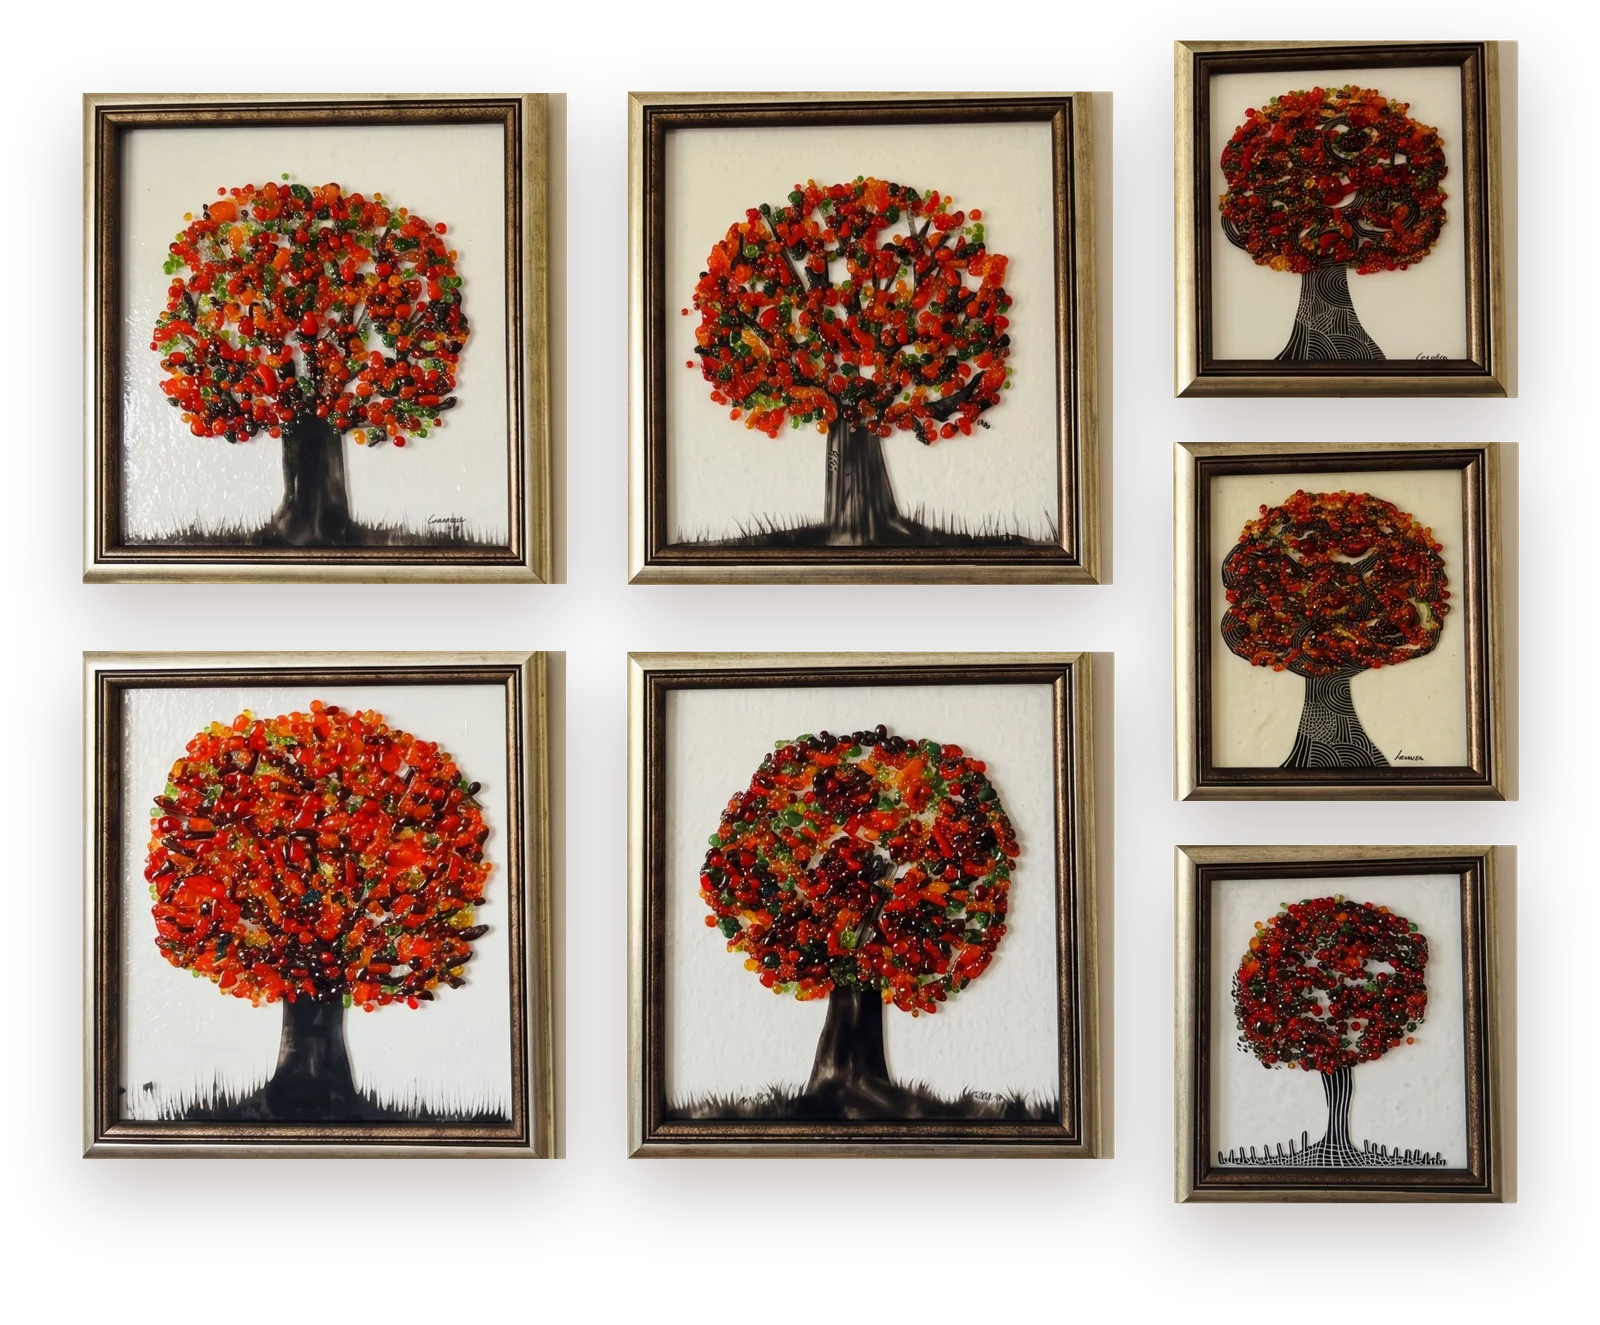
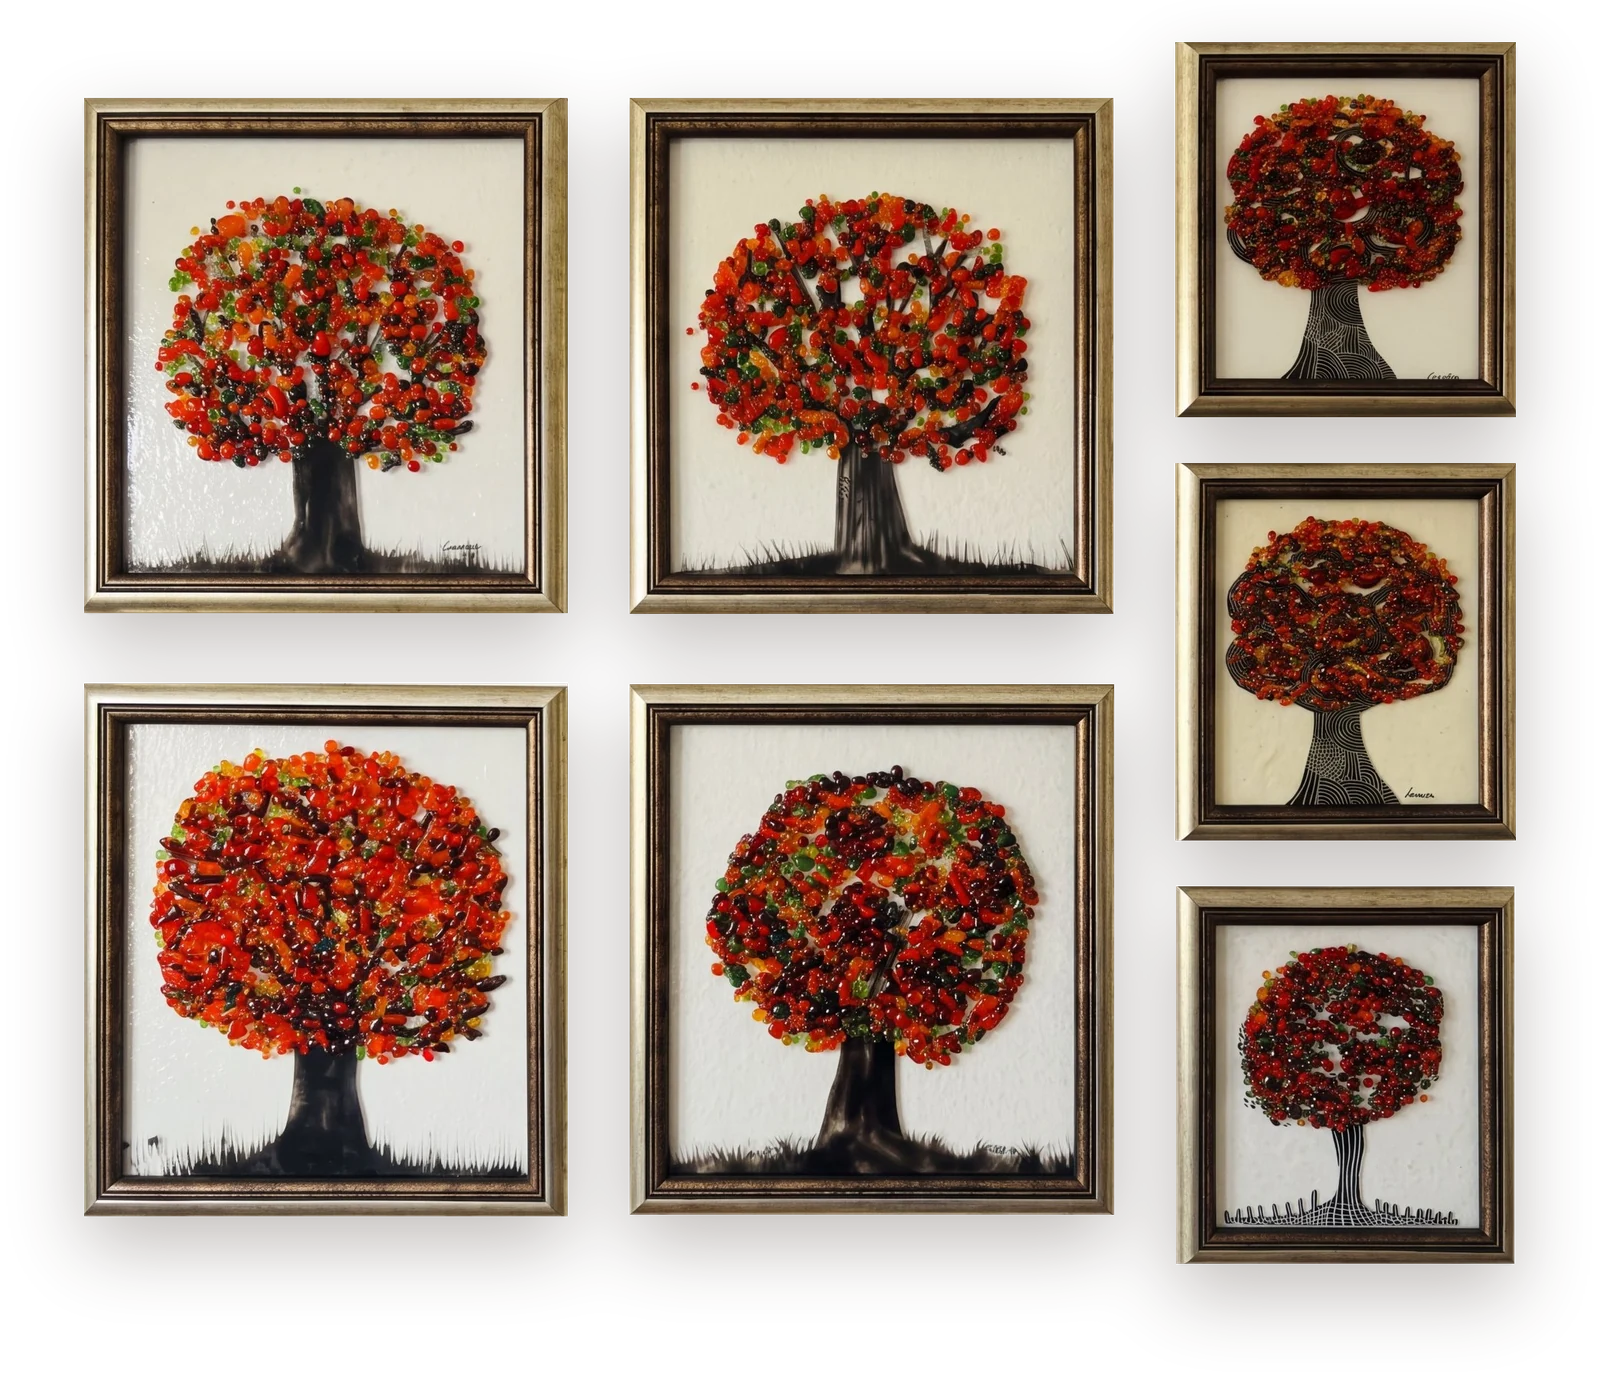
Gallery hang: exact right and top frame edges, measured per corner
Claude-Session: https://claude.ai/code/session_01Ejjvzof7c4Qtrug9YXuF8N

diff --git a/index.html b/index.html
@@ -93,7 +93,7 @@
         </dl>
       </div>
     </div>
-    <figure class="author-fig rv"><img src="assets/img/collection-wall.webp" alt="Дървета на живота на стената в галерията" loading="lazy" width="1600" height="1325"></figure>
+    <figure class="author-fig rv"><img src="assets/img/collection-wall.webp?v=2" alt="Дървета на живота на стената в галерията" loading="lazy" width="1600" height="1390"></figure>
   </section>
 
   <section class="block contacts" id="kontakti">
